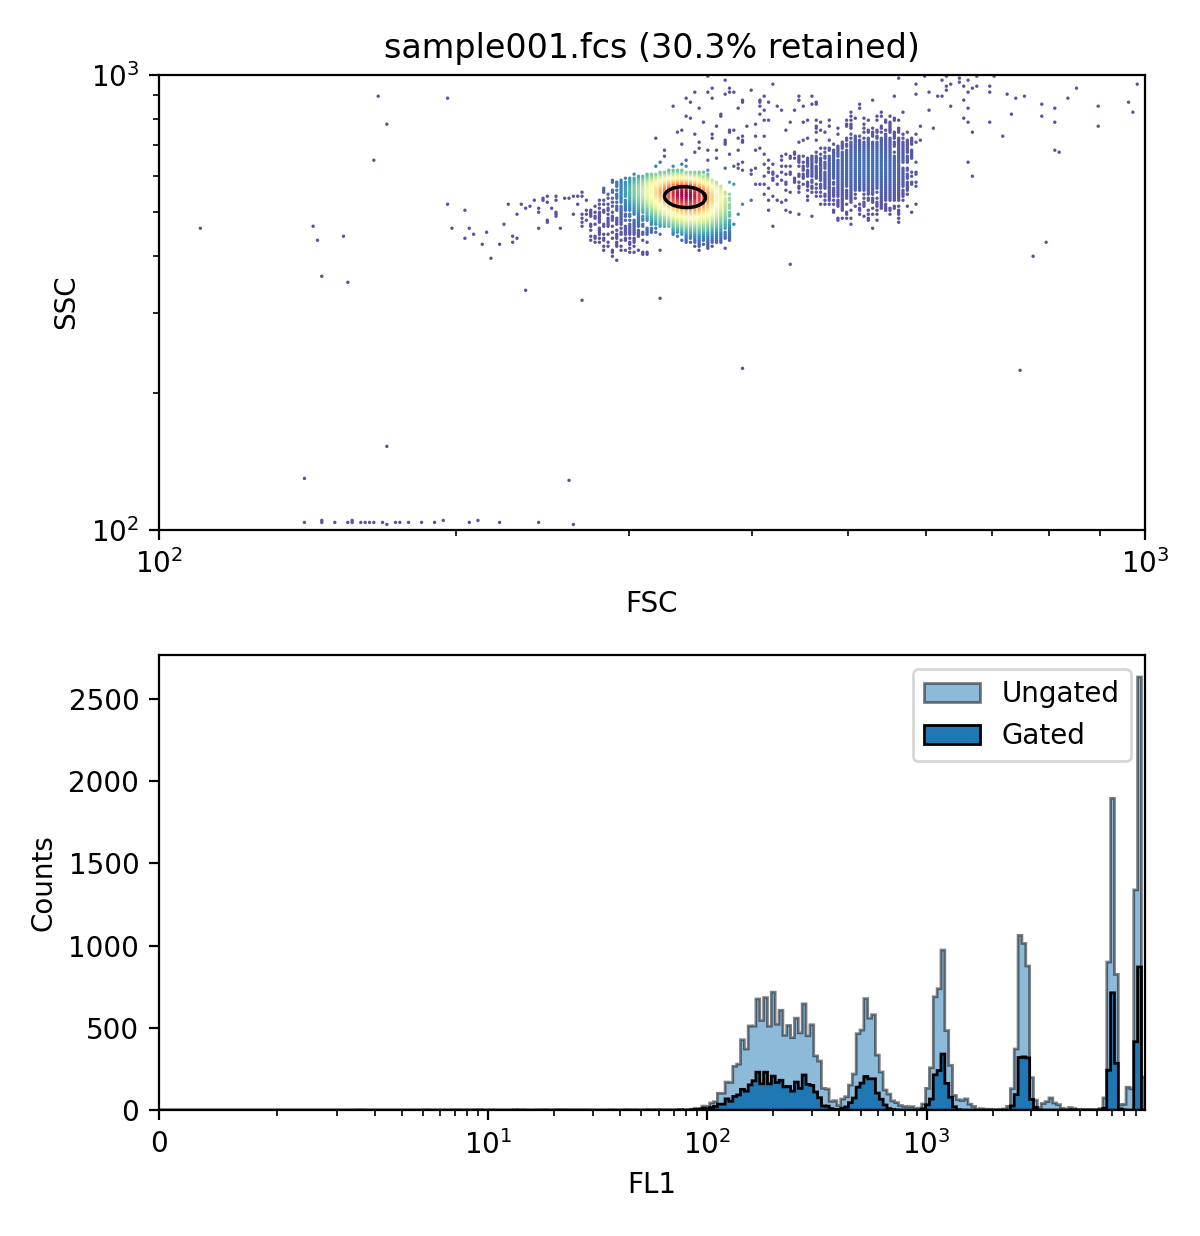
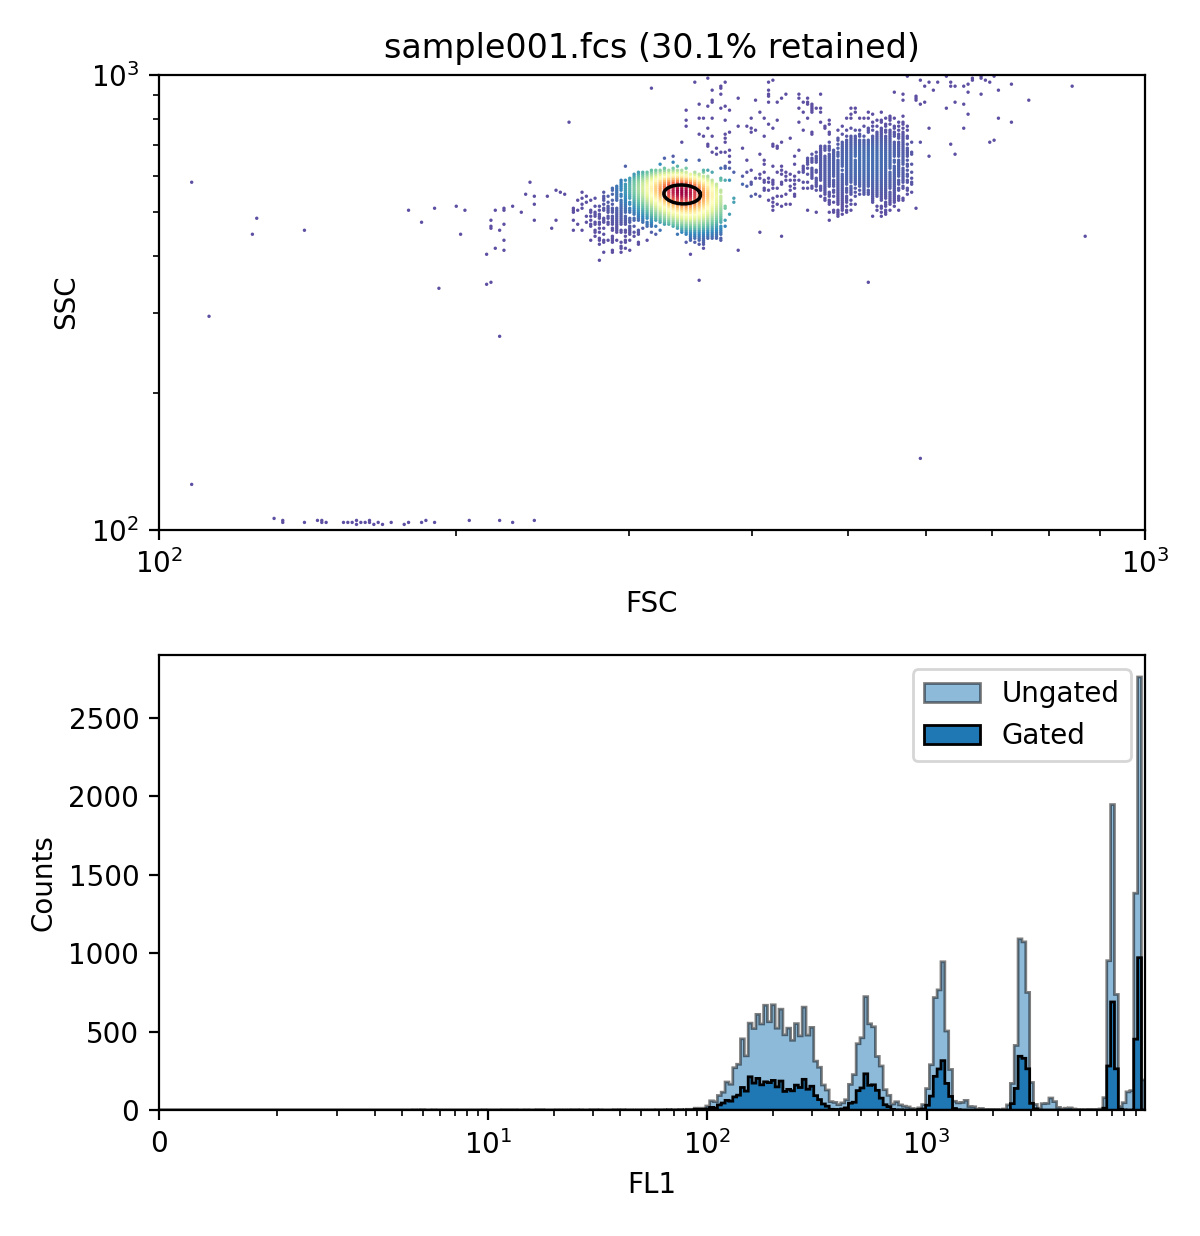
Modified python tutorial to reflect new example files.

diff --git a/doc/python_tutorial/plot.rst b/doc/python_tutorial/plot.rst
@@ -15,9 +15,9 @@ Also, import ``numpy`` and ``pyplot`` from ``matplotlib``
 Histograms
 ----------
 
-Let's load the data from file ``sample006.fcs`` into an ``FCSData`` object called ``s``, and tranform all channels to arbitrary units.
+Let's load the data from file ``sample029.fcs`` into an ``FCSData`` object called ``s``, and tranform all channels to arbitrary units.
 
->>> s = FlowCal.io.FCSData('FCFiles/sample006.fcs')
+>>> s = FlowCal.io.FCSData('FCFiles/sample029.fcs')
 >>> s = FlowCal.transform.to_rfi(s)
 
 One is often interested in the fluorescence distribution across a population of cells. This is represented in a histogram. Since ``FCSData`` is a numpy array, one could use the standard ``hist`` function included in matplotlib. Alternatively, ``FlowCal`` includes its own histogram function specifically tailored to work with ``FCSData`` objects. For example, one can plot the contents of the ``FL1`` channel with a single call to :func:`FlowCal.plot.hist1d`.
@@ -38,7 +38,7 @@ By default, :func:`FlowCal.plot.hist1d` uses something called *logicle* scaling 
 
 Finally, :func:`FlowCal.plot.hist1d` can plot several FCSData objects at the same time. Let's now load 3 FCSData objects, transform all channels to a.u., and plot the ``FL1`` channel of all three with transparency.
 
->>> filenames = ['FCFiles/sample{:03d}.fcs'.format(i + 9) for i in range(3)]
+>>> filenames = ['FCFiles/sample{:03d}.fcs'.format(i + 33) for i in range(3)]
 >>> d = [FlowCal.io.FCSData(filename) for filename in filenames]
 >>> d = [FlowCal.transform.to_rfi(di) for di in d]
 >>> FlowCal.plot.hist1d(d, channel='FL1', alpha=0.7, bins=128)
@@ -93,11 +93,11 @@ Violin Plots
 
 Histograms, as shown above, can be used to plot and compare data from multiple samples. However, they can easily get too crowded. A more compact way is to use a violin plot, wherein vertical, normalized, symmetrical histograms ("violins") are shown centered on corresponding x-axis values. We can do this with the :func:`FlowCal.plot.violin` function.
 
->>> filenames = ['FCFiles/sample{:03d}.fcs'.format(i+6) for i in range(10)]
+>>> filenames = ['FCFiles/sample{:03d}.fcs'.format(i+29) for i in range(9)]
 >>> d = [FlowCal.io.FCSData(filename) for filename in filenames]
 >>> d = [FlowCal.transform.to_rfi(di) for di in d]
->>> dapg = np.array([0, 2.33, 4.36, 8.16, 15.3, 28.6, 53.5, 100, 187, 350])
->>> FlowCal.plot.violin(data=d, channel='FL1', positions=dapg, xlabel='DAPG (uM)', xscale='log', ylim=(1e0,2e3))
+>>> atc = np.array([0, 0.5, 1, 1.5, 2, 3, 4, 7.5, 20])
+>>> FlowCal.plot.violin(data=d, channel='FL1', positions=atc, xlabel='aTc (ng/mL)', xscale='log', ylim=(1e0,2e3))
 >>> plt.show()
 
 .. image:: /_static/img/python_tutorial/python_tutorial_plot_violin_1.png
@@ -107,24 +107,23 @@ Note that the x axis has been plotted on a logarithmic scale using the ``xscale`
 "Dose response" or "transfer" functions are common in biology. These sometimes include minimum (negative) and maximum (positive) controls, and are often approximated by mathematical models. The :func:`FlowCal.plot.violin_dose_response` function can be used to plot a full dose response dataset, including min data, max data, and a mathematical model. Min and max data are illustrated to the left of the plot, and the mathematical model is correctly illustrated even when a position=0 violin is illustrated separately when ``xscale`` is ``'log'``.
 
 >>> # Function specifying mathematical model
->>> def dapg_sensor_model(dapg_concentration):
->>>         mn = 20
->>>         mx = 250.
->>>         K  = 20.
->>>         n  = 3.57
->>>         if dapg_concentration <= 0:
->>>             return mn
+>>> def atc_sensor_model(atc_concentration):
+>>>         mn = 16
+>>>         mx = 170.
+>>>         K  = 3.
+>>>         n  = 5.
+>>>         if atc_concentration <= 0:
+>>>             return mx
 >>>         else:
->>>             return mn + ((mx-mn)/(1+((K/dapg_concentration)**n)))
->>>
+>>>             return mn + ((mx-mn)/(1+((atc_concentration/K)**n)))
 >>> # Plot
 >>> FlowCal.plot.violin_dose_response(
 >>>     data=d,
 >>>     channel='FL1',
->>>     positions=dapg,
+>>>     positions=atc,
 >>>     min_data=d[0],
 >>>     max_data=d[-1],
->>>     model_fxn=dapg_sensor_model,
+>>>     model_fxn=atc_sensor_model,
 >>>     xscale='log',
 >>>     yscale='log',
 >>>     ylim=(1e0,2e3),
@@ -132,7 +131,7 @@ Note that the x axis has been plotted on a logarithmic scale using the ``xscale`
 >>>                        'linewidth':3,
 >>>                        'zorder':-1,
 >>>                        'solid_capstyle':'butt'})
->>> plt.xlabel('DAPG Concentration ($\mu M$)')
+>>> plt.xlabel('aTc Concentration (ng/mL)')
 >>> plt.ylabel('FL1 Fluorescence (a.u.)')
 >>> plt.show()
 

diff --git a/doc/python_tutorial/gate.rst b/doc/python_tutorial/gate.rst
@@ -15,9 +15,9 @@ Also, import ``numpy`` and ``pyplot`` from ``matplotlib``
 Removing Saturated Events
 -------------------------
 
-We'll start by loading the data from file ``sample006.fcs`` into an ``FCSData`` object called ``s``. Then, transform all channels into a.u.
+We'll start by loading the data from file ``sample029.fcs`` into an ``FCSData`` object called ``s``. Then, transform all channels into a.u.
 
->>> s = FlowCal.io.FCSData('FCFiles/sample006.fcs')
+>>> s = FlowCal.io.FCSData('FCFiles/sample029.fcs')
 >>> s = FlowCal.transform.to_rfi(s)
 
 In the :doc:`plotting tutorial </python_tutorial/plot>` we looked at a density plot of the forward scatter/side scatter (``FSC``/``SSC``) channels and identified several clusters of particles (events). This density plot is repeated below for convenience.
@@ -56,7 +56,7 @@ Ellipse Gate
 >>> s_g3 = FlowCal.gate.ellipse(s_g1,
 ...                             channels=['FSC', 'SSC'],
 ...                             log=True,
-...                             center=(2.3, 2.78),
+...                             center=(2.2, 2.8),
 ...                             a=0.3,
 ...                             b=0.2,
 ...                             theta=30/180.*np.pi)
@@ -94,12 +94,14 @@ Plotting 2D Gates
 
 Finally, we will see a better way to visualize the result of applying a 2D gate. First, we will use density gating again, but this time we will do it a little differently.
 
->>> s_g5, m_g5, contour = FlowCal.gate.density2d(s_g1,
+>>> density_gate_output = FlowCal.gate.density2d(s_g1,
 ...                                              channels=['FSC', 'SSC'],
 ...                                              gate_fraction=0.75,
 ...                                              full_output=True)
+>>> s_g5 = density_gate_output.gated_data
+>>> contour = density_gate_output.contour
 
-The extra argument, ``full_output``, is available in every function in :mod:`FlowCal.gate`. It instructs a gating function to return some additional output arguments with information about the gating process. The second output argument is always a mask, a boolean array that indicates which events on the original FCSData object are being retained by the gate. 2-dimensional gating functions have a third output argument: a contour surrounding the gated region, which we will now use for plotting.
+The extra argument, ``full_output``, is available in every function in :mod:`FlowCal.gate`. It instructs a gating function to return some additional output arguments in a ``namedtuple`` object. From this object, we extract the gated data and a contour surrounding the gated region, which we will now use for plotting.
 
 The function :func:`FlowCal.plot.density_and_hist` was introduced in the :doc:`plotting tutorial </python_tutorial/plot>` to produce plots of a single FCSData object. But it can also be used to plot the result of a gating step, showing the data before and after gating, and the gating contour. Let's use this ability to show the result of the density gating process.
 

diff --git a/doc/python_tutorial/read.rst b/doc/python_tutorial/read.rst
@@ -9,14 +9,14 @@ To start, navigate to the ``examples`` directory included with FlowCal, and open
 
 FCS files are standard files in which flow cytometry data is stored. Normally, one FCS file corresponds to one sample.
 
-The object :class:`FlowCal.io.FCSData` allows a user to open an FCS file. The following instruction opens the file ``sample006.fcs`` from the ``FCFiles`` folder, loads the information into an ``FCSData`` object, and assigns it to a variable ``s``.
+The object :class:`FlowCal.io.FCSData` allows a user to open an FCS file. The following instruction opens the file ``sample029.fcs`` from the ``FCFiles`` folder, loads the information into an ``FCSData`` object, and assigns it to a variable ``s``.
 
->>> s = FlowCal.io.FCSData('FCFiles/sample006.fcs')
+>>> s = FlowCal.io.FCSData('FCFiles/sample029.fcs')
 
 An ``FCSData`` object is a 2D ``numpy`` array with a few additional features. The first dimension indexes the event number, and the second dimension indexes the flow cytometry channel (or "parameter", as called by the FCS standard). We can see the number of events and channels using the standard ``numpy``'s ``shape`` property:
 
 >>> print(s.shape)
-(32224, 8)
+(34440, 8)
 
 As with any ``numpy`` array, we can slice an ``FCSData`` object. For example, let's obtain the first 100 events.
 
@@ -28,7 +28,7 @@ Note that the product of slicing an FCSData object is also an FCSData object. We
 
 >>> s_sub_ch = s[:, [3, 4, 5]]
 >>> print(s_sub_ch.shape)
-(32224, 3)
+(34440, 3)
 
 However, it is not immediately obvious what channels we are getting. Fortunately, the ``FCSData`` object contains some additional information about the acquisition settings. In particular, we can check the name of the channels with the ``channels`` property.
 

diff --git a/doc/python_tutorial/mef.rst b/doc/python_tutorial/mef.rst
@@ -19,10 +19,12 @@ As mentioned in the :doc:`fundamentals</fundamentals/calibration>` section, conv
 
 >>> b = FlowCal.io.FCSData('FCFiles/sample001.fcs')
 >>> b = FlowCal.transform.to_rfi(b)
->>> b_g, __, c = FlowCal.gate.density2d(b,
-...                                     channels=['FSC', 'SSC'],
-...                                     gate_fraction=0.3,
-...                                     full_output=True)
+>>> density_gate_output = FlowCal.gate.density2d(b,
+...                                              channels=['FSC', 'SSC'],
+...                                              gate_fraction=0.3,
+...                                              full_output=True)
+>>> b_g = density_gate_output.gated_data
+>>> c = density_gate_output.contour
 >>> FlowCal.plot.density_and_hist(b,
 ...                               gated_data=b_g,
 ...                               gate_contour=c,
@@ -60,18 +62,15 @@ The argument ``plot`` instructs :func:`FlowCal.mef.get_transform_fxn` to generat
 Let's now use ``to_mef`` to transform fluroescence data to MEF.
 
 >>> # Load sample
->>> s = FlowCal.io.FCSData('FCFiles/sample006.fcs')
->>>
+>>> s = FlowCal.io.FCSData('FCFiles/sample029.fcs')
 >>> # Transform all channels to a.u., and then FL1 to MEF.
 >>> s = FlowCal.transform.to_rfi(s)
 >>> s = to_mef(s, channels='FL1')
->>>
 >>> # Gate
 >>> s_g = FlowCal.gate.high_low(s, channels=['FSC', 'SSC'])
 >>> s_g = FlowCal.gate.density2d(s_g,
 ...                              channels=['FSC', 'SSC'],
 ...                              gate_fraction=0.5)
->>>
 >>> # Plot histogram of transformed channel
 >>> FlowCal.plot.hist1d(s_g, channel='FL1')
 >>> plt.show()

diff --git a/doc/python_tutorial/transform.rst b/doc/python_tutorial/transform.rst
@@ -10,9 +10,9 @@ To start, navigate to the ``examples`` directory included with FlowCal, and open
 Transforming to Arbitrary Fluorescence Units (a.u.)
 ---------------------------------------------------
 
-Start by loading file ``sample006.fcs`` into an ``FCSData`` object called ``s``.
+Start by loading file ``sample029.fcs`` into an ``FCSData`` object called ``s``.
 
->>> s = FlowCal.io.FCSData('FCFiles/sample006.fcs')
+>>> s = FlowCal.io.FCSData('FCFiles/sample029.fcs')
 
 Let's now visualize the contents of the ``FL1`` channel. We will explore ``FlowCal``'s plotting functions in the :doc:`plotting tutorial </python_tutorial/plot>`, but for now let's just use ``matplotlib``'s ``hist`` function.
 
